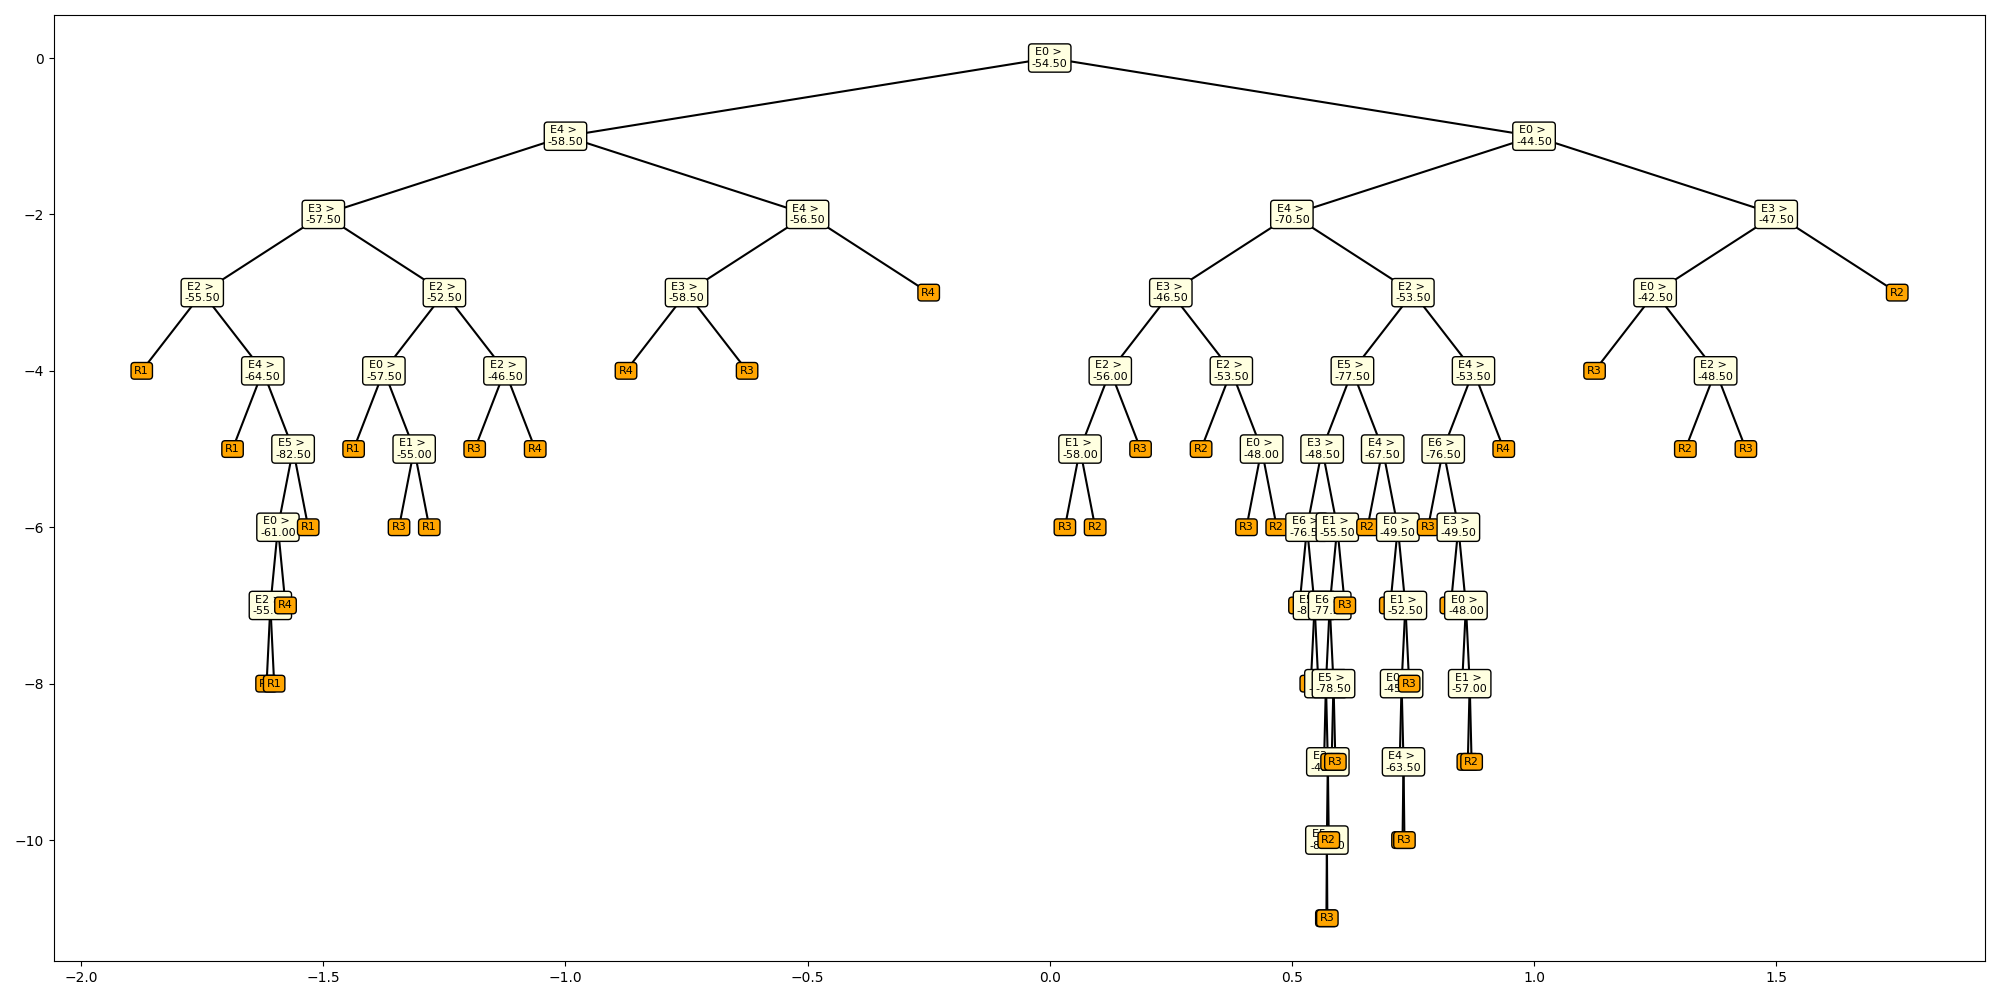
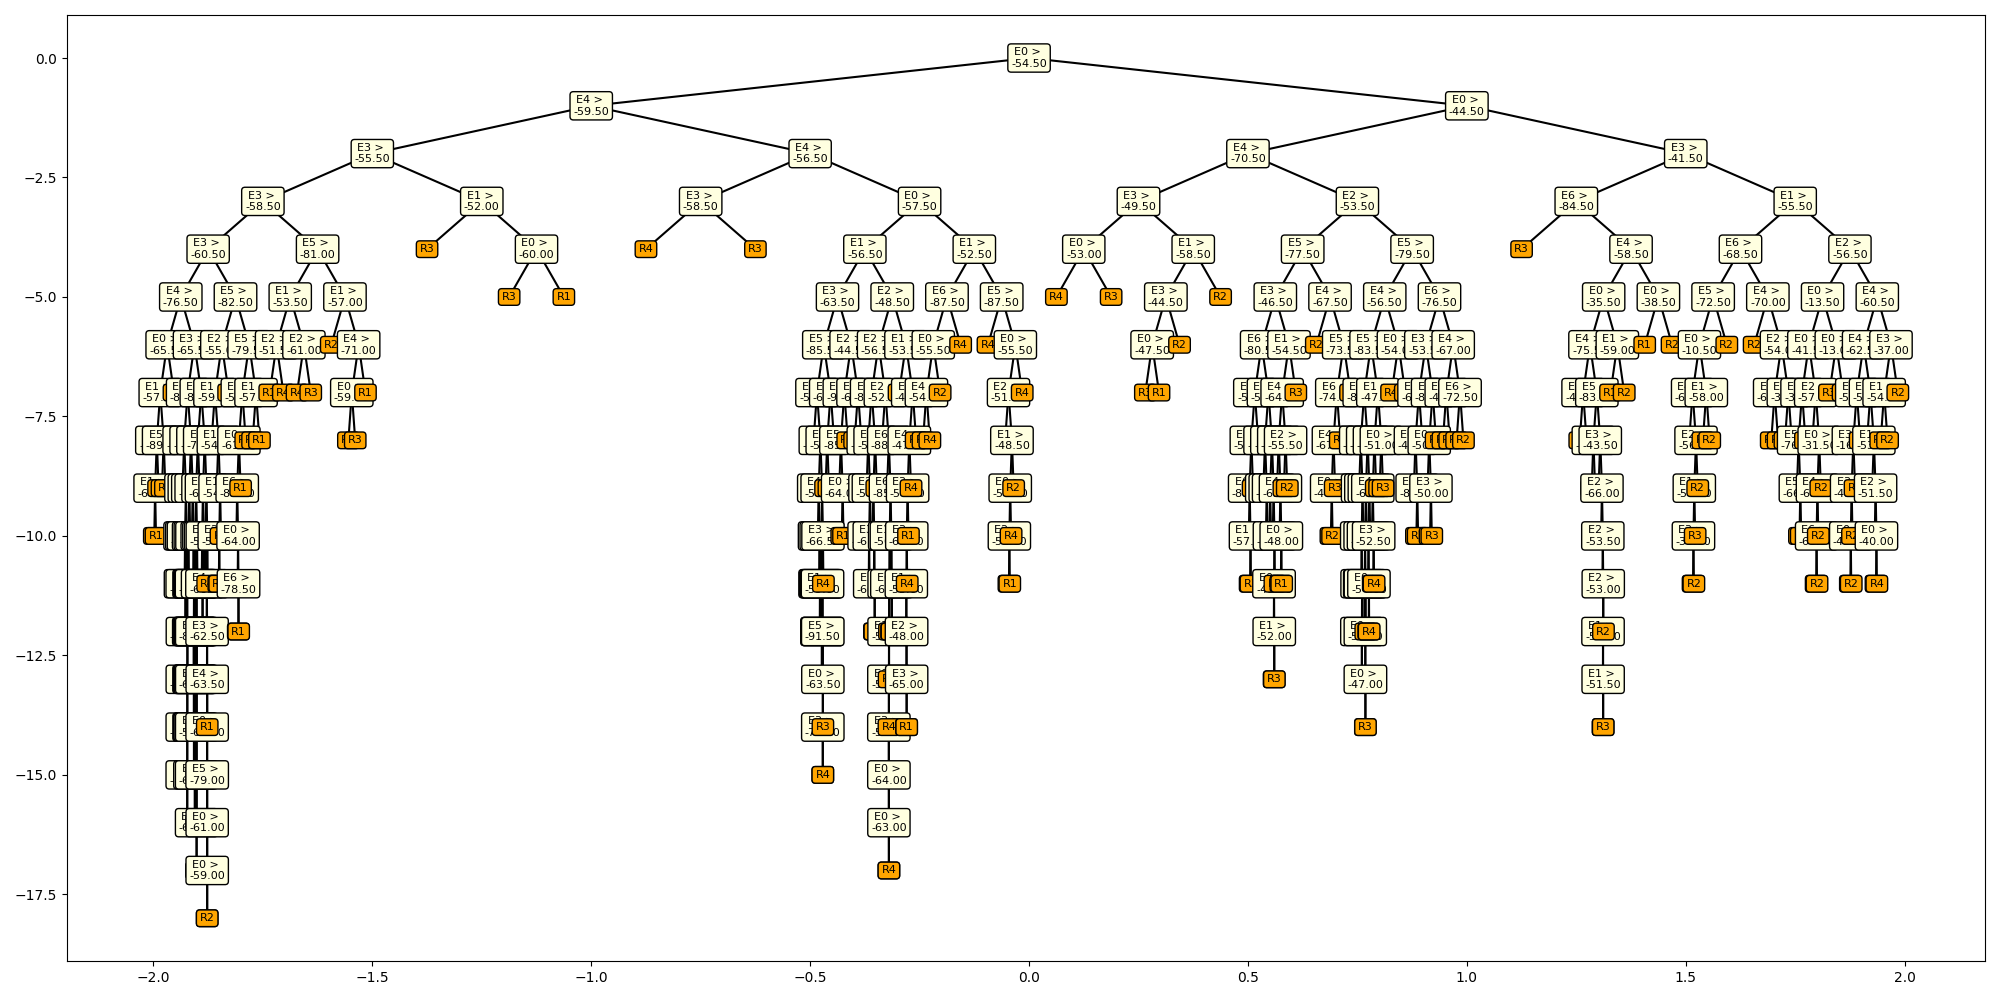
cw1 closed

diff --git a/decision_tree.py b/decision_tree.py
@@ -477,7 +477,7 @@ class DecisionTreeModel:
         if depth == 0:  
             plt.tight_layout()
             plt.savefig('Tree.png')
-            # plt.show()
+            plt.show()
 
 
     def plot_confusion_matrix(self, matrix):
@@ -614,6 +614,6 @@ class DecisionTreeModel:
 
 # Main for script execution:
 if __name__ == '__main__':
-    dataset_path='wifi_db/clean_dataset.txt'
+    dataset_path='wifi_db/noisy_dataset.txt'
     model = DecisionTreeModel(dataset_path, folds=10)
     model.run()
